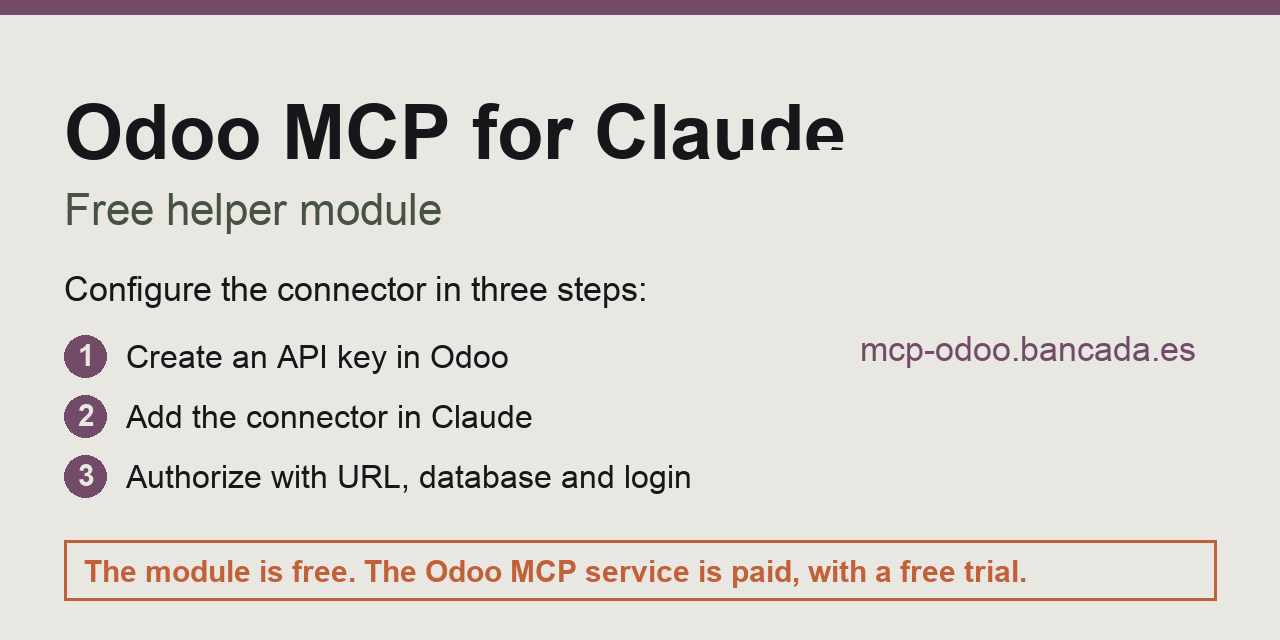
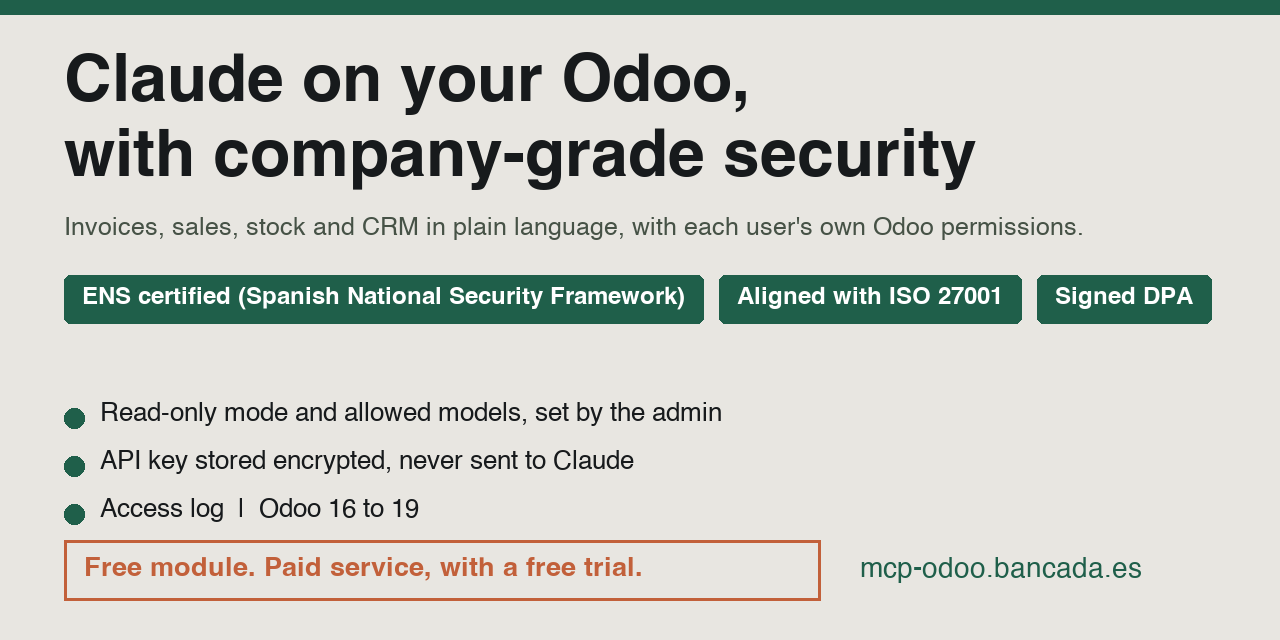
Listing for companies: security and certifications first, UTM tracking, French translation
- index.html: ad-style English listing (benefit headline, 4 value blocks, use cases, 3 steps, CTA).
- New banner.png in the same style.
- utm_source=odoo_apps with a distinct utm_content on every mcp-odoo.bancada.es link
  (index, settings view, README, manifest).
- i18n/fr.po added.

diff --git a/bancada_mcp_claude/static/description/index.html b/bancada_mcp_claude/static/description/index.html
@@ -1,85 +1,121 @@
 <section class="oe_container">
   <div class="oe_row oe_spaced">
     <div class="alert alert-warning" style="border:2px solid #C2603A; padding:16px; margin-bottom:24px;">
-      <h2 class="oe_slogan" style="margin:0 0 8px 0;">This module is free. The Odoo MCP service is paid.</h2>
+      <h2 class="oe_slogan" style="margin:0 0 8px 0;">Free module. Paid service with a free trial.</h2>
       <p style="font-size:16px; margin:0;">
-        The module only helps you configure the connector. The <strong>Odoo MCP service is external</strong>
-        (run by Bancada at <a href="https://mcp-odoo.bancada.es">mcp-odoo.bancada.es</a>), it is a
-        <strong>paid service</strong> contracted on its website, and it comes with a <strong>free trial</strong>:
-        200 free calls, no card required. Plans start at 12 EUR/month (excl. VAT).
-        <a href="https://mcp-odoo.bancada.es/#precios">See plans and prices</a>.
+        This module is free and only helps you configure the connector. The <strong>Odoo MCP service is external</strong>
+        (run by Bancada at <a href="https://mcp-odoo.bancada.es/?utm_source=odoo_apps&amp;utm_medium=marketplace&amp;utm_campaign=odoo_apps_listing&amp;utm_content=listing_header">mcp-odoo.bancada.es</a>), it is a
+        <strong>paid service</strong> and it comes with a <strong>free trial</strong>: 200 free calls, no card required.
+        Plans start at 12 EUR/month (excl. VAT).
+        <a href="https://mcp-odoo.bancada.es/?utm_source=odoo_apps&amp;utm_medium=marketplace&amp;utm_campaign=odoo_apps_listing&amp;utm_content=listing_notice#precios">See plans and prices</a>.
       </p>
     </div>
   </div>
 </section>
 
 <section class="oe_container">
-  <div class="oe_row oe_spaced">
-    <h2 class="oe_slogan">Odoo MCP for Claude (Bancada)</h2>
-    <h3 class="oe_slogan">Ask your Odoo with Claude. This module gets you connected.</h3>
-    <p class="oe_mt32">
-      Odoo MCP is a hosted connector that lets Claude read and write your Odoo data in plain language
-      (invoices, orders, contacts, stock, CRM and any model your Odoo user can reach), always with the
-      permissions of your Odoo user. It works with Odoo 16 to 19 (Odoo Online, Odoo.sh and on-premise).
-      Authorization uses OAuth 2.0 and your Odoo API key is entered on the connector's authorization
-      page, never in the chat.
+  <div class="oe_row oe_spaced" style="text-align:center;">
+    <h2 class="oe_slogan" style="color:#1F5F4A;">Let your team ask Claude about your Odoo, with the security your company requires</h2>
+    <h3 class="oe_slogan">Invoices, sales, stock and CRM in plain language, always with each person's own Odoo permissions.</h3>
+    <p class="oe_mt16">
+      <span class="badge badge-success" style="background:#1F5F4A; color:#fff; padding:8px 12px; font-size:14px;">ENS certified (Spanish National Security Framework)</span>
+      <span class="badge badge-success" style="background:#1F5F4A; color:#fff; padding:8px 12px; font-size:14px;">Aligned with ISO 27001</span>
+      <span class="badge badge-success" style="background:#1F5F4A; color:#fff; padding:8px 12px; font-size:14px;">Signed DPA</span>
+      <span class="badge badge-success" style="background:#1F5F4A; color:#fff; padding:8px 12px; font-size:14px;">Odoo 16 to 19</span>
+    </p>
+    <p class="oe_mt16">
+      <a class="btn btn-primary btn-lg" style="background:#1F5F4A; border-color:#1F5F4A; color:#fff; padding:12px 28px;"
+         href="https://mcp-odoo.bancada.es/?utm_source=odoo_apps&amp;utm_medium=marketplace&amp;utm_campaign=odoo_apps_listing&amp;utm_content=listing_hero#empezar">Start the free trial</a>
     </p>
   </div>
 </section>
 
 <section class="oe_container oe_dark">
   <div class="oe_row oe_spaced">
-    <h2 class="oe_slogan">What this module does</h2>
-    <ul class="oe_mt16" style="font-size:16px;">
-      <li>Adds <strong>Settings &gt; Claude (Odoo MCP)</strong> with the connector URL to copy:
-        <code>https://mcp-odoo.bancada.es/mcp</code></li>
-      <li>Explains the three steps: create an API key in My Profile &gt; Account Security, add the connector
-        in Claude with that URL, and authorize with your Odoo URL, database and login (shown on the page).</li>
-      <li>Has a button that opens the standard Odoo dialog to create an API key, the same one as in
-        Preferences &gt; Account Security. The module never generates, reads or stores keys.</li>
-      <li>Links to the documentation, the sign-up page and the plans.</li>
-    </ul>
-    <p class="oe_mt16">
-      No external calls from the module, no telemetry, no external Python dependencies.
-      It does not connect Claude by itself: you need the Odoo MCP service.
-    </p>
+    <h2 class="oe_slogan">Why companies choose it</h2>
+    <div class="row mt16">
+      <div class="col-md-6" style="padding:12px 16px;">
+        <h3 style="color:#1F5F4A;">1. Security you can show your auditor</h3>
+        <ul style="font-size:15px;">
+          <li><strong>ENS certified (Spanish National Security Framework)</strong>, for contracts with the Spanish public administration.</li>
+          <li><strong>Aligned with ISO 27001</strong>: the security controls are delivered in writing for your audit.</li>
+          <li><strong>Signed DPA</strong>, ready to attach to your purchasing file.</li>
+        </ul>
+      </div>
+      <div class="col-md-6" style="padding:12px 16px;">
+        <h3 style="color:#1F5F4A;">2. Claude only sees what the Odoo user can see</h3>
+        <ul style="font-size:15px;">
+          <li>It works with the access rights of each person's Odoo user, never more.</li>
+          <li>The administrator sets, per person, <strong>read-only mode</strong> and the <strong>allowed models</strong>.</li>
+          <li>Your Odoo API key is stored encrypted and never reaches Claude.</li>
+        </ul>
+      </div>
+      <div class="col-md-6" style="padding:12px 16px;">
+        <h3 style="color:#1F5F4A;">3. Access log</h3>
+        <p style="font-size:15px;">A record of which models and records each user has read or changed, and when.</p>
+      </div>
+      <div class="col-md-6" style="padding:12px 16px;">
+        <h3 style="color:#1F5F4A;">4. Nothing to install on your server</h3>
+        <p style="font-size:15px;">One URL. No ports to open and no updates to manage. Works with Odoo 16 to 19 (Odoo Online, Odoo.sh and on-premise).</p>
+      </div>
+    </div>
   </div>
 </section>
 
 <section class="oe_container">
   <div class="oe_row oe_spaced">
-    <h2 class="oe_slogan">About the Odoo MCP service (external, paid, free trial)</h2>
-    <p>Pricing as published at <a href="https://mcp-odoo.bancada.es/#precios">mcp-odoo.bancada.es</a>
-      (excl. VAT, cancel any time). New companies get 200 free calls, no card required. Every time Claude
-      reads or changes something in your Odoo counts as one call.</p>
+    <h2 class="oe_slogan">What your team can ask</h2>
+    <div class="row mt16">
+      <div class="col-md-6" style="padding:8px 16px;"><div style="border-left:4px solid #1F5F4A; padding:8px 14px;"><strong>Unpaid invoices</strong><br/>"Which customers owe us money and since when? Prepare a reminder for each."</div></div>
+      <div class="col-md-6" style="padding:8px 16px;"><div style="border-left:4px solid #1F5F4A; padding:8px 14px;"><strong>Sales</strong><br/>"How much did we sell this quarter compared with the last one, by salesperson?"</div></div>
+      <div class="col-md-6" style="padding:8px 16px;"><div style="border-left:4px solid #1F5F4A; padding:8px 14px;"><strong>Stock</strong><br/>"Which products are below the minimum and who supplies them?"</div></div>
+      <div class="col-md-6" style="padding:8px 16px;"><div style="border-left:4px solid #1F5F4A; padding:8px 14px;"><strong>CRM</strong><br/>"Which open leads have had no activity for 15 days? Schedule a call for tomorrow."</div></div>
+    </div>
+  </div>
+</section>
+
+<section class="oe_container oe_dark">
+  <div class="oe_row oe_spaced">
+    <h2 class="oe_slogan">Start in 3 steps</h2>
+    <ol style="font-size:16px;">
+      <li>Install this module and open <strong>Settings &gt; Claude (Odoo MCP)</strong>: it gives you the connector URL <code>https://mcp-odoo.bancada.es/mcp</code> and the button to create an API key.</li>
+      <li>In Claude, add a custom connector with that URL.</li>
+      <li>Authorize with your Odoo URL, database, login and API key (entered on the authorization page, never in the chat) and start the free trial.</li>
+    </ol>
+    <p class="oe_mt16" style="text-align:center;">
+      <a class="btn btn-primary btn-lg" style="background:#1F5F4A; border-color:#1F5F4A; color:#fff; padding:12px 28px;"
+         href="https://mcp-odoo.bancada.es/?utm_source=odoo_apps&amp;utm_medium=marketplace&amp;utm_campaign=odoo_apps_listing&amp;utm_content=listing_cta#empezar">Try it free: 200 calls, no card</a>
+    </p>
+    <p style="text-align:center;"><a href="https://mcp-odoo.bancada.es/docs?utm_source=odoo_apps&amp;utm_medium=marketplace&amp;utm_campaign=odoo_apps_listing&amp;utm_content=listing_docs">Documentation</a></p>
+  </div>
+</section>
+
+<section class="oe_container">
+  <div class="oe_row oe_spaced">
+    <h2 class="oe_slogan">Plans (external paid service)</h2>
+    <p>Pricing as published at <a href="https://mcp-odoo.bancada.es/?utm_source=odoo_apps&amp;utm_medium=marketplace&amp;utm_campaign=odoo_apps_listing&amp;utm_content=listing_pricing#precios">mcp-odoo.bancada.es</a>
+      (excl. VAT, cancel any time). Every time Claude reads or changes something in your Odoo counts as one call.</p>
     <table class="table table-bordered" style="max-width:720px;">
       <thead><tr><th>Plan</th><th>Price</th><th>Calls / 30 days</th><th>Users</th></tr></thead>
       <tbody>
         <tr><td>Small business</td><td>12 EUR / month</td><td>300</td><td>1 active user</td></tr>
         <tr><td>Team</td><td>29 EUR / month</td><td>2,000</td><td>up to 5 active users</td></tr>
         <tr><td>Business</td><td>79 EUR / month</td><td>5,000</td><td>up to 15 active users</td></tr>
-        <tr><td>Custom</td><td colspan="3">Contact Bancada</td></tr>
+        <tr><td>Custom</td><td colspan="3">Contact Bancada: custom volume, billing and a signed contract and DPA</td></tr>
       </tbody>
     </table>
-    <p>Plans and conditions may change: the website is the reference.</p>
+    <p>Plans and conditions may change: the website is the reference. ENS certification and the access log are features of the paid service, not of this module.</p>
   </div>
 </section>
 
 <section class="oe_container oe_dark">
   <div class="oe_row oe_spaced">
-    <h2 class="oe_slogan">Quick start</h2>
-    <ol style="font-size:16px;">
-      <li>Install this module and open <strong>Settings &gt; Claude (Odoo MCP)</strong>.</li>
-      <li>Click <em>Create an API key</em> (or go to My Profile &gt; Account Security) and copy the key.</li>
-      <li>In Claude, add a custom connector with <code>https://mcp-odoo.bancada.es/mcp</code>.</li>
-      <li>Authorize with your Odoo URL, database, login and API key. Start the free trial on
-        <a href="https://mcp-odoo.bancada.es/conectar">mcp-odoo.bancada.es</a>.</li>
-    </ol>
-    <p>
-      <a href="https://mcp-odoo.bancada.es/docs">Documentation</a> |
-      <a href="https://mcp-odoo.bancada.es/conectar">Sign up (paid service, free trial)</a> |
-      <a href="https://mcp-odoo.bancada.es/#precios">Plans and prices</a>
-    </p>
+    <h2 class="oe_slogan">What this module does</h2>
+    <ul style="font-size:16px;">
+      <li>Adds <strong>Settings &gt; Claude (Odoo MCP)</strong> with the connector URL to copy and the three setup steps.</li>
+      <li>A button that opens the standard Odoo dialog to create an API key. The module never generates, reads or stores keys.</li>
+      <li>No external calls from the module, no telemetry, no external Python dependencies. It does not connect Claude by itself: you need the Odoo MCP service.</li>
+    </ul>
   </div>
 </section>
 

diff --git a/bancada_mcp_claude/__manifest__.py b/bancada_mcp_claude/__manifest__.py
@@ -9,15 +9,15 @@ Odoo MCP for Claude (Bancada)
 =============================
 
 **This module is free. The Odoo MCP service is paid**: it is an external service
-run by Bancada, contracted at https://mcp-odoo.bancada.es, with a free trial
-(200 free calls, no card required). Plans and prices: https://mcp-odoo.bancada.es/#precios
+run by Bancada, contracted at https://mcp-odoo.bancada.es/?utm_source=odoo_apps&utm_medium=marketplace&utm_campaign=odoo_apps_listing&utm_content=manifest_description, with a free trial
+(200 free calls, no card required). Plans and prices: https://mcp-odoo.bancada.es/?utm_source=odoo_apps&utm_medium=marketplace&utm_campaign=odoo_apps_listing&utm_content=manifest_pricing#precios
 
 The module only helps you configure the connector. It adds Settings > Claude (Odoo MCP)
 with the connector URL, the three setup steps and a button that opens the standard Odoo
 dialog to create an API key. It makes no external calls, has no telemetry and stores nothing.
 """,
     "author": "Bancada",
-    "website": "https://mcp-odoo.bancada.es",
+    "website": "https://mcp-odoo.bancada.es/?utm_source=odoo_apps&utm_medium=marketplace&utm_campaign=odoo_apps_listing&utm_content=manifest_website",
     "support": "hola@bancada.es",
     "license": "LGPL-3",
     "price": 0.0,

diff --git a/README.md b/README.md
@@ -1,5 +1,5 @@
 # Odoo MCP for Claude (Bancada)
 
 Free Odoo module (`bancada_mcp_claude`) that helps configure the Odoo MCP connector for Claude.
-The module is free; the Odoo MCP service is a paid external service (free trial) at https://mcp-odoo.bancada.es.
+The module is free; the Odoo MCP service is a paid external service (free trial) at https://mcp-odoo.bancada.es/?utm_source=odoo_apps&utm_medium=marketplace&utm_campaign=odoo_apps_listing&utm_content=readme.
 Branches `17.0`, `18.0`, `19.0`; the module lives at the repo root, as the Odoo Apps store expects.
